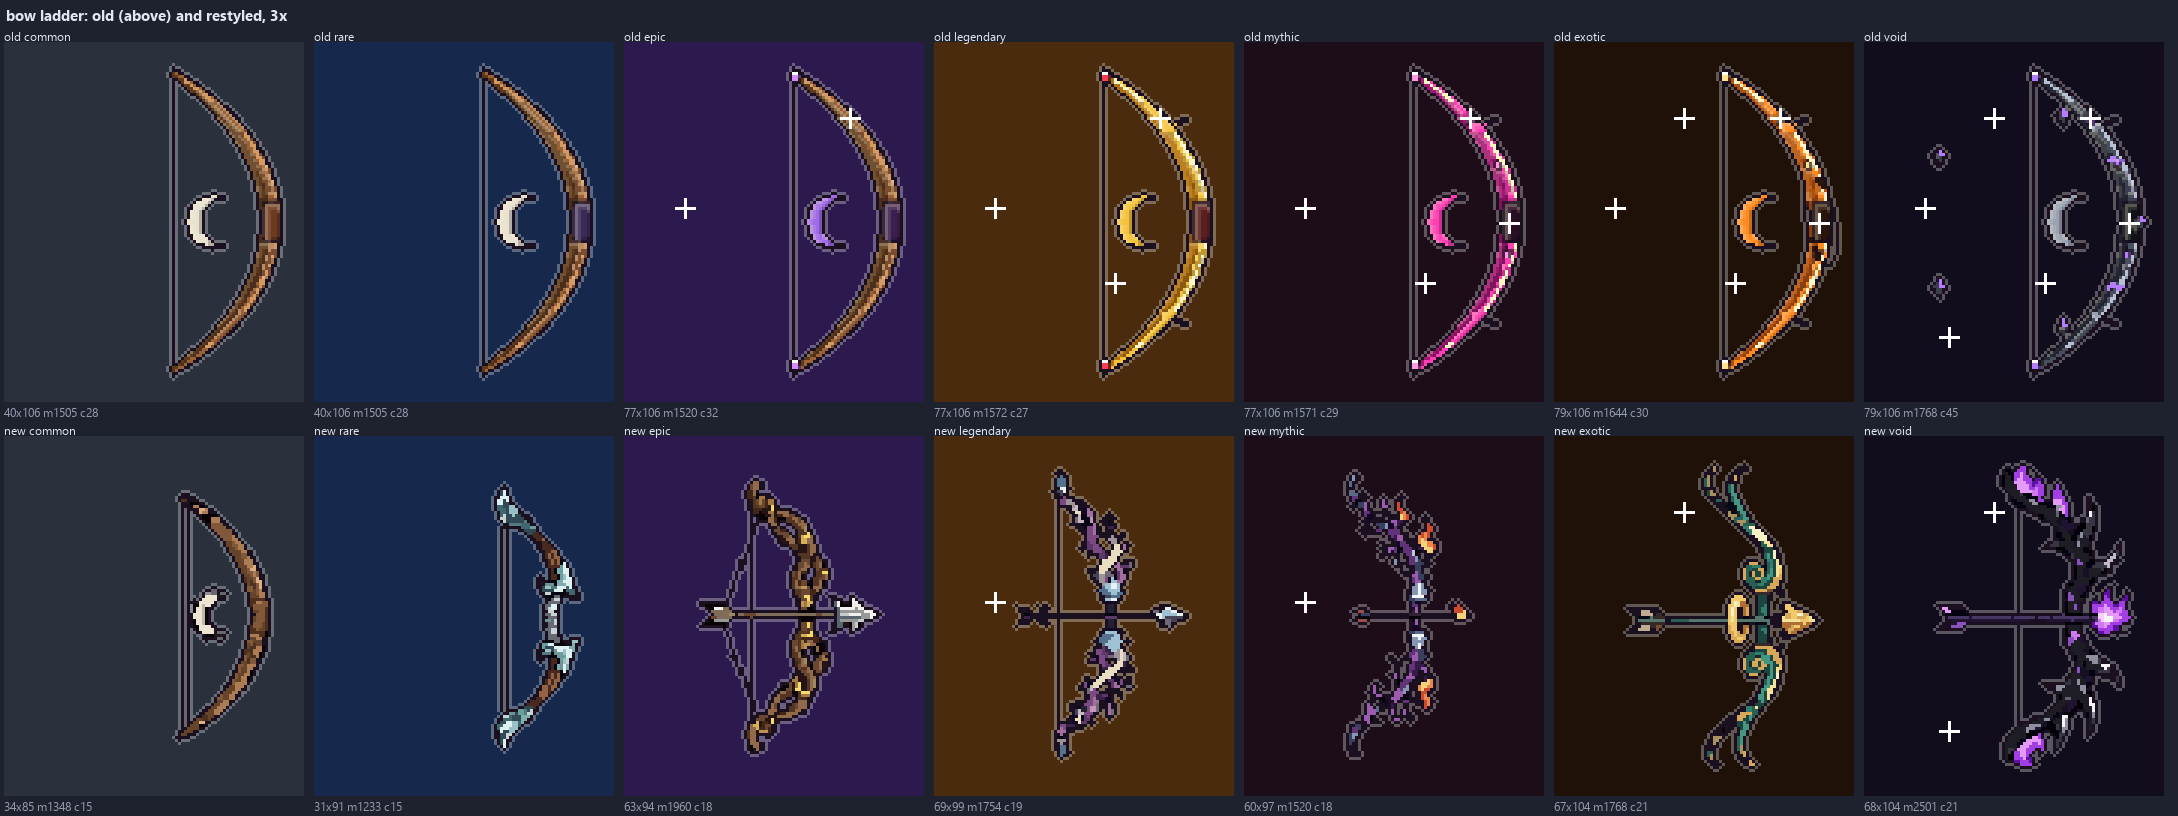
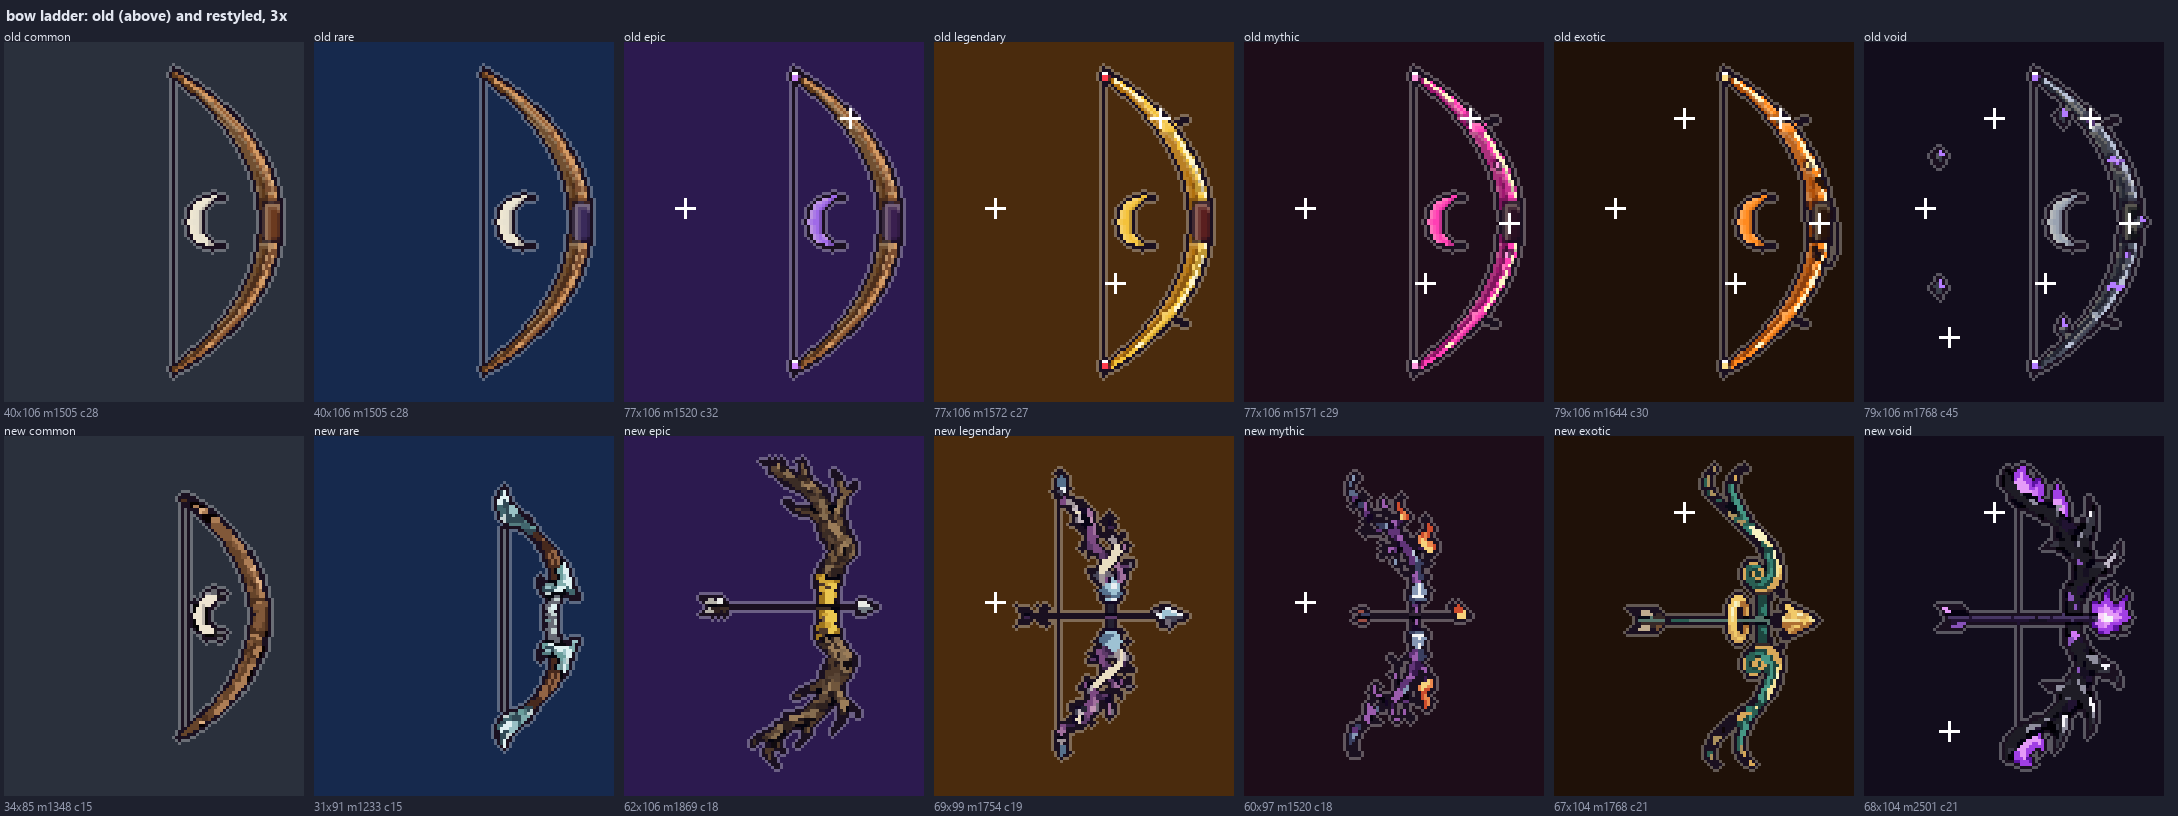
Art drafts: restore the approved Soul Reaper and bows (undo the redo)

Changed region(s): [[0.3122, 0.5515, 0.4059, 0.9498], [0.281, 0.9804, 0.3434, 1.0]]

diff --git a/design/pixel/concept-sheet-1-new/previews.py b/design/pixel/concept-sheet-1-new/previews.py
@@ -25,7 +25,7 @@ OUT = HERE / "previews"
 
 def main() -> None:
     OUT.mkdir(exist_ok=True)
-    for strip in sorted((HERE / "drafts/attacks").glob("atk-*.png")):
+    for strip in sorted((HERE / "restyled/attacks").glob("atk-*.png")):
         style = strip.stem[4:]
         im = Image.open(strip).convert("RGBA")
         frames = [im.crop((64 * i, 0, 64 * i + 64, 64)) for i in range(4)]

diff --git a/design/pixel/concept-sheet-1-new/restyled/numbers.md b/design/pixel/concept-sheet-1-new/restyled/numbers.md
@@ -58,7 +58,7 @@
 | old void | 79x106 | 1768 | 45 | 2.5 |
 | new common | 34x85 | 1348 | 15 | 0.0 |
 | new rare | 31x91 | 1233 | 15 | 0.2 |
-| new epic | 63x94 | 1960 | 18 | 0.0 |
+| new epic | 62x106 | 1869 | 18 | 0.1 |
 | new legendary | 69x99 | 1754 | 19 | 0.1 |
 | new mythic | 60x97 | 1520 | 18 | 0.1 |
 | new exotic | 67x104 | 1768 | 21 | 0.1 |
